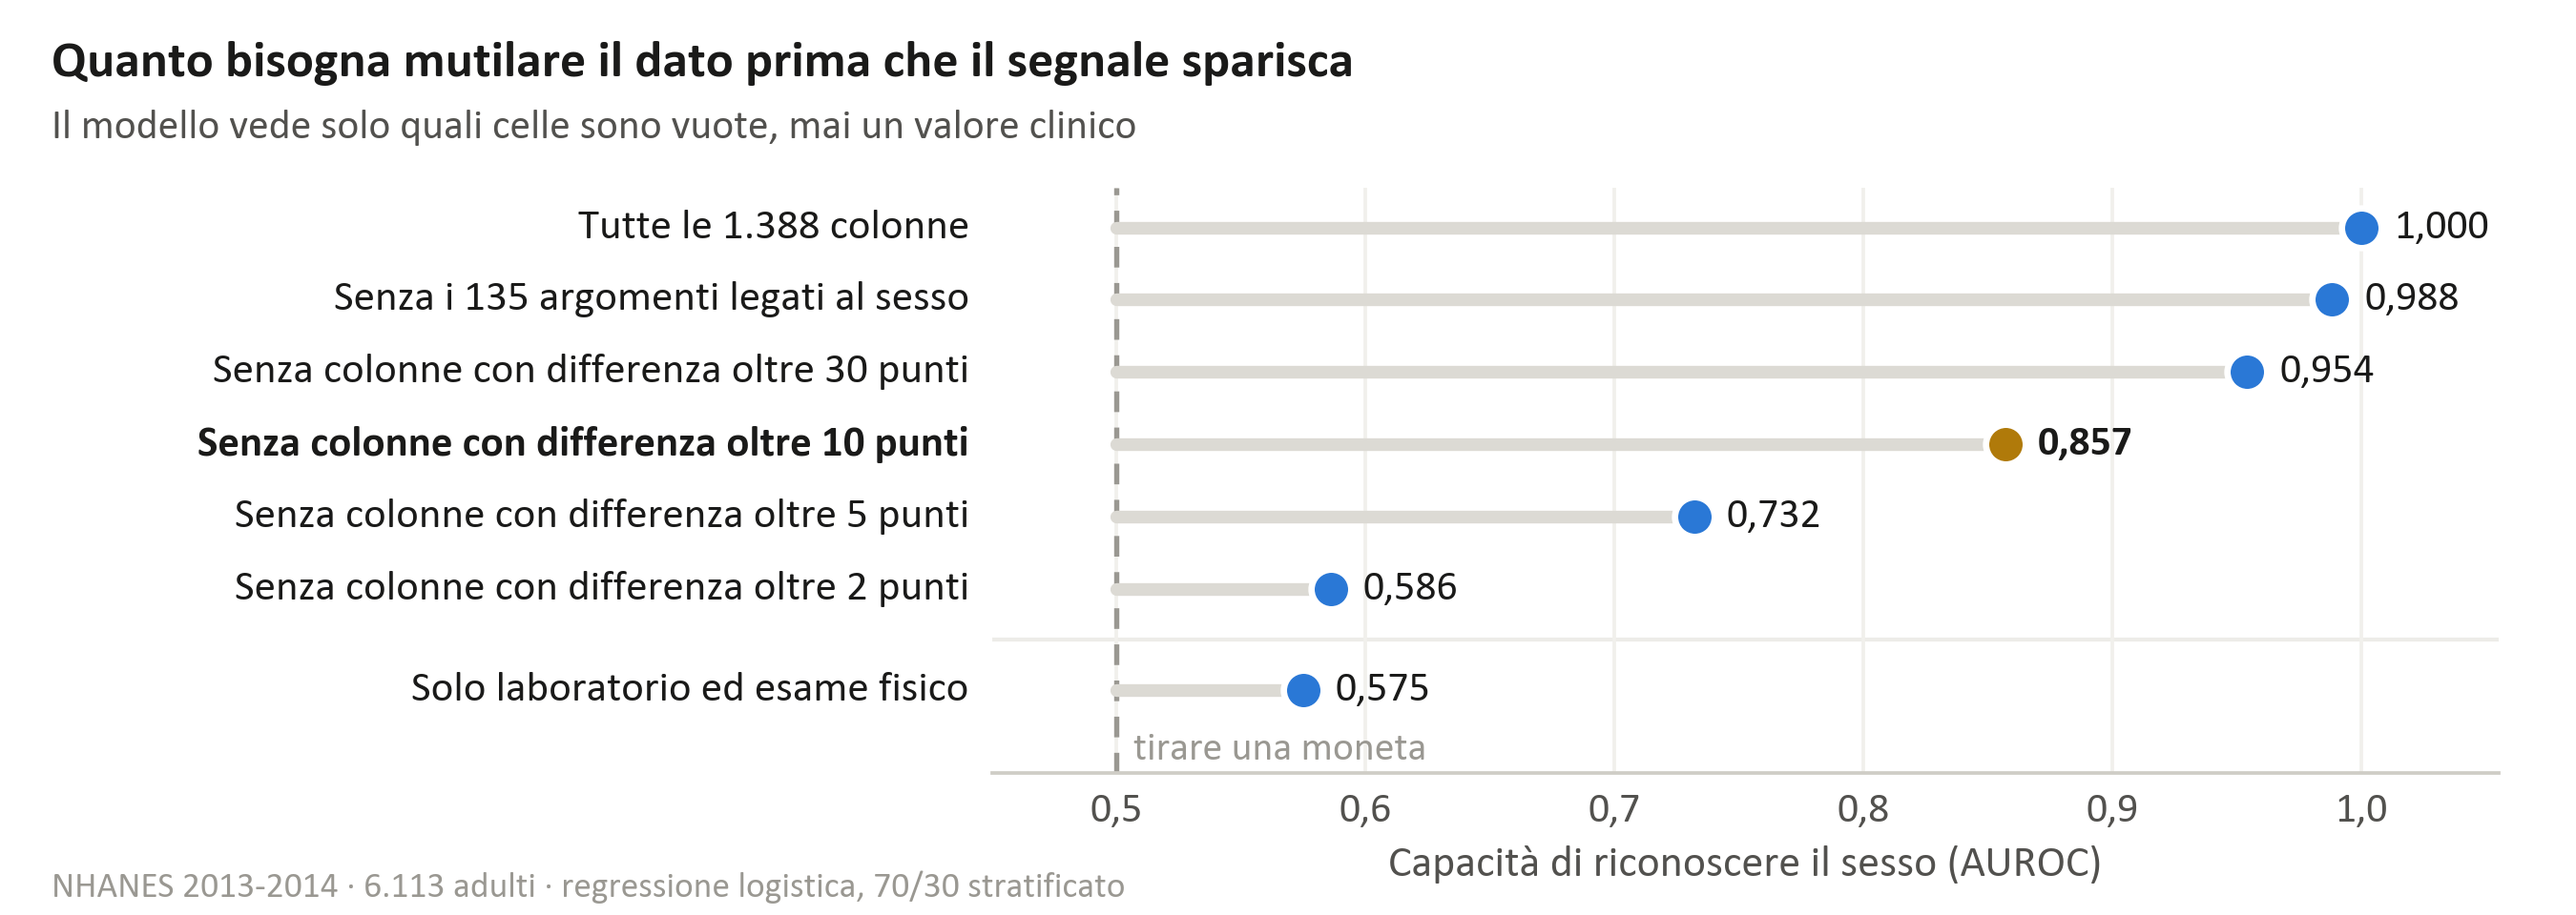
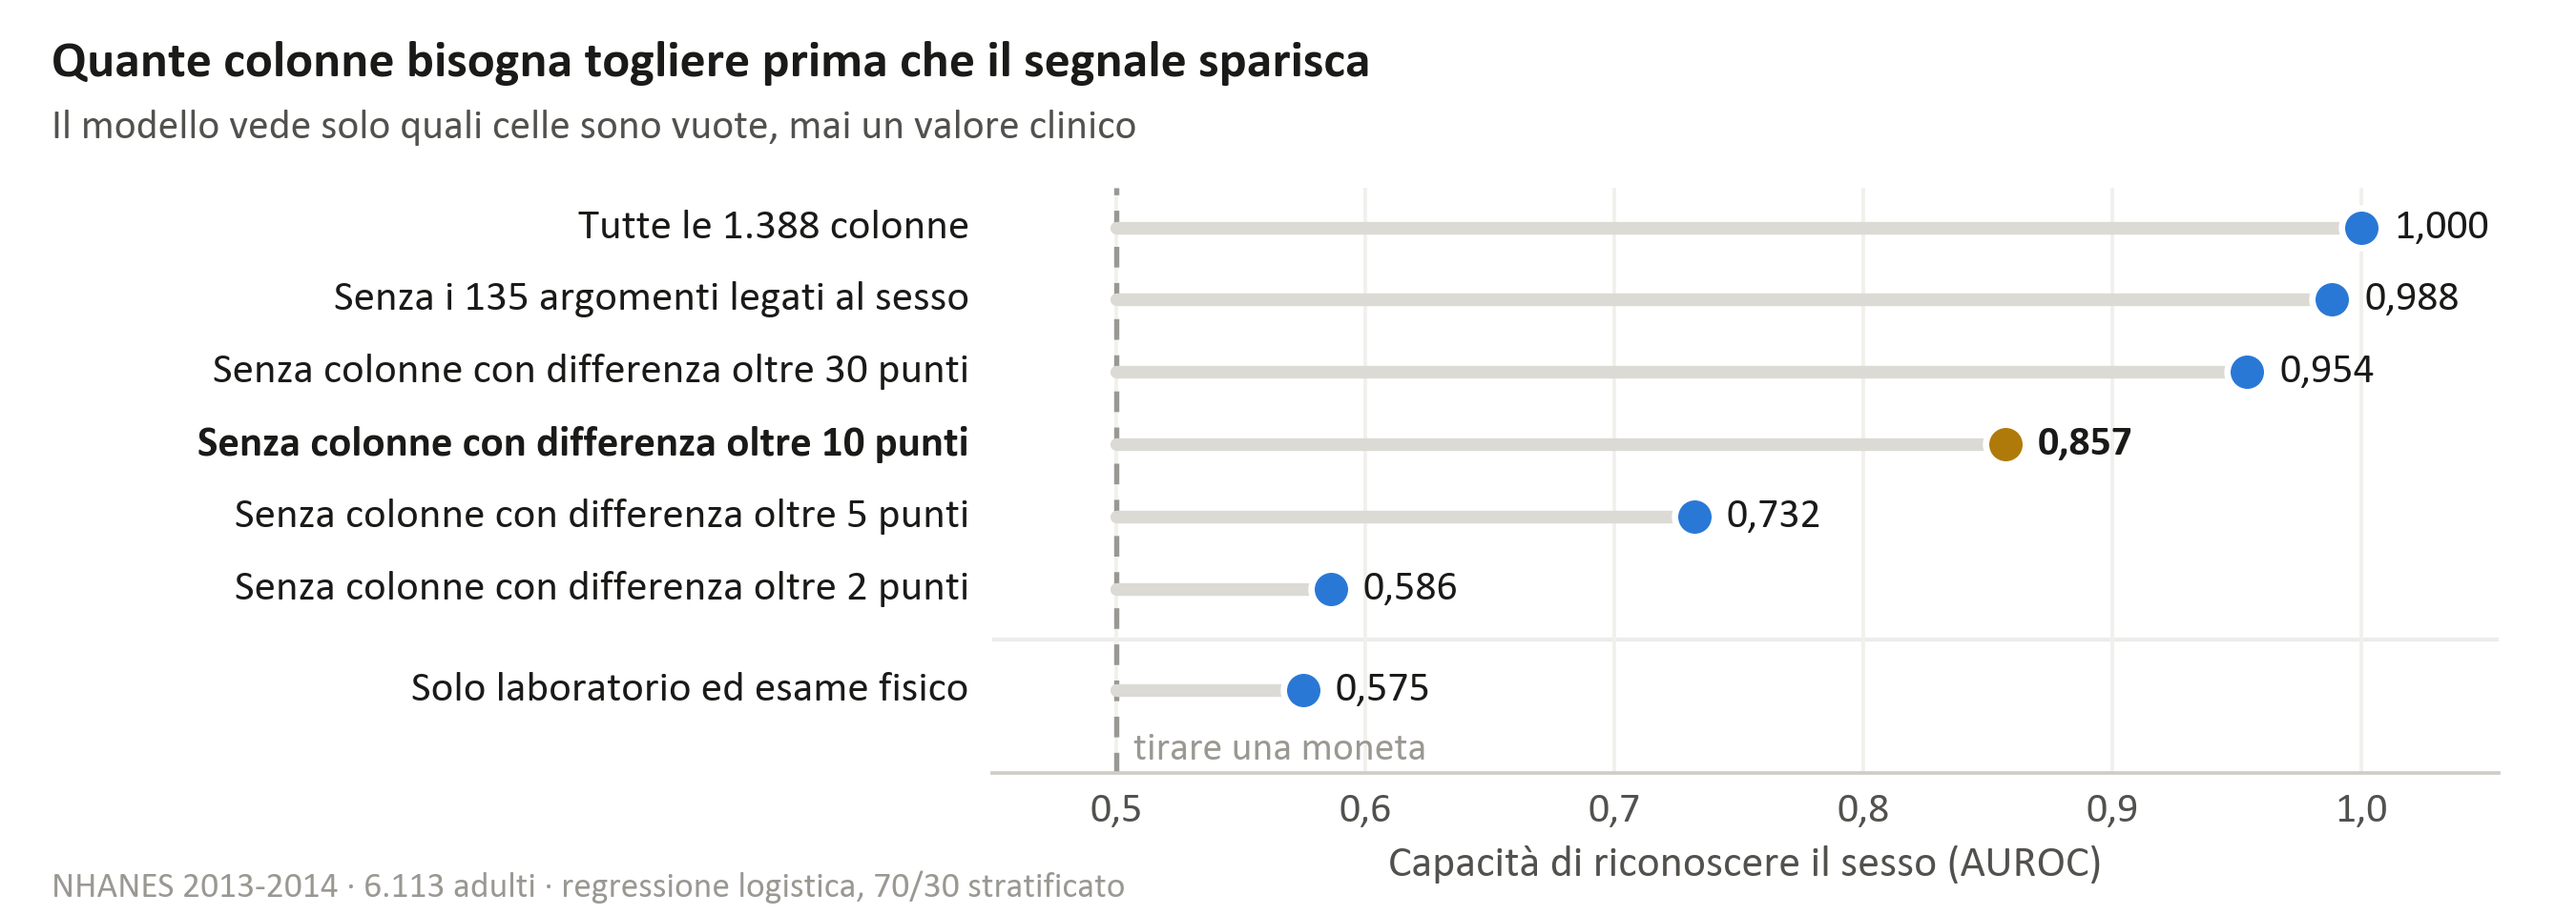
F13 e notebook: «Quante colonne bisogna togliere» al posto di «mutilare»

Changed region(s): [[0.0622, 0.0312, 0.5289, 0.0938]]

diff --git a/figure/genera_figure.py b/figure/genera_figure.py
@@ -313,7 +313,7 @@ def f13():
     ax.set_xticks([0.5, 0.6, 0.7, 0.8, 0.9, 1.0])
     ax.xaxis.set_major_formatter(FuncFormatter(lambda v, _: virgola(v, 1)))
     ax.set_xlabel("Capacità di riconoscere il sesso (AUROC)")
-    fig.text(0.02, 0.955, "Quanto bisogna mutilare il dato prima che il segnale sparisca",
+    fig.text(0.02, 0.955, "Quante colonne bisogna togliere prima che il segnale sparisca",
              fontsize=13, fontweight="bold", color=INK, va="top")
     fig.text(0.02, 0.88, "Il modello vede solo quali celle sono vuote, mai un valore clinico",
              fontsize=10.5, color=INK2, va="top")
